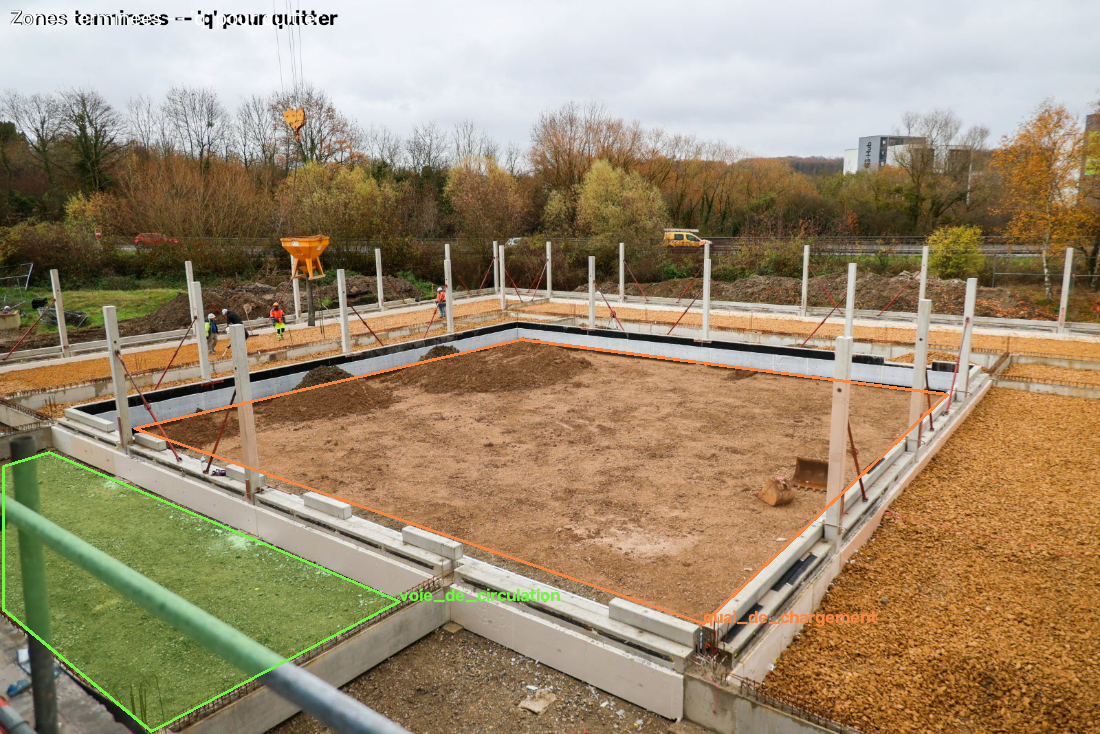
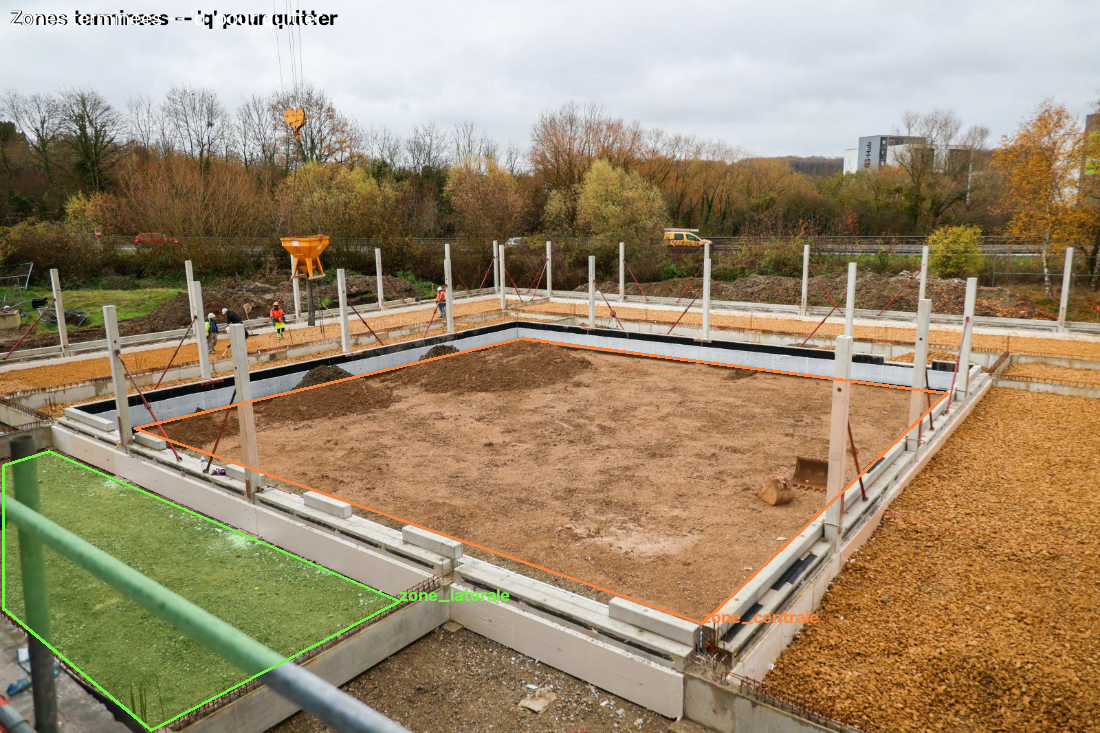
README : scène interactive du chantier, scénario d'intrusion, zones
- Nouvelle sous-section "Scène interactive du chantier" : présentation
  de la scène, commandes de la silhouette (souris, molette, clic droit)
  et scénario d'exemple pas à pas (alerte sur la zone centrale, puis
  intrusion simulée).
- Zones : l'ordre des noms passés à --zones est l'ordre de dessin ; sur
  une vidéo, une seule image sert au dessin (la première, ou
  --frame-index), d'où le besoin d'un plan fixe.
- Aperçu chantier.png régénéré : il affichait d'anciens noms de zones
  (voie_de_circulation, quai_de_chargement) ; polygones inchangés.

diff --git a/README.md b/README.md
@@ -181,6 +181,44 @@ agent/third_party/llama.cpp/llama-server.exe \
   -m agent/models/granite-4.1-3b-Q4_K_M.gguf --jinja -ngl 99 -c 8192 --port 8080
 ```
 
+### Scène interactive du chantier
+
+La 5ᵉ scène du cycle n'est pas une vidéo : c'est une photo de chantier
+sur laquelle on déplace une silhouette d'ouvrier, détectée par le
+modèle comme une vraie personne. Deux zones de danger y sont
+définies : `zone_centrale` (la fouille au centre, en orange sur
+l'aperçu ci-dessous) et `zone_laterale` (en bas à gauche, en vert).
+Pendant la démo, elles sont tracées en rouge sur la vidéo, avec leur
+nom.
+
+![Zones de danger de la scène chantier](demo/assets/zone_previews/chantier.png)
+
+Commandes de la silhouette :
+
+- **déplacer la souris** : la silhouette suit le curseur (aucun clic
+  nécessaire) ;
+- **molette** : agrandir ou réduire la silhouette ;
+- **clic droit** : afficher ou masquer la silhouette.
+
+**Scénario d'exemple : simuler une intrusion**
+
+1. Lancer `03_live_agent_demo.py`, puis appuyer 4 fois sur `c` pour
+   arriver sur la scène « chantier interactif ».
+2. Dans la fenêtre Assistant, demander :
+   « Alerte-moi si quelqu'un entre dans la zone centrale ». Le panneau
+   de droite montre l'outil appelé :
+   `set_zone_alert(zone_name="zone_centrale", object_class="person")`.
+3. Placer la silhouette hors des zones, puis la faire entrer dans la
+   zone centrale.
+4. L'alerte s'affiche aussitôt en bannière sur la vidéo, puis l'agent
+   la reformule en une phrase dans la fenêtre Assistant.
+5. Sortir de la zone puis y revenir déclenche une nouvelle alerte.
+   Demander ensuite « Combien de personnes sont entrées dans la zone
+   centrale ? » pour obtenir le décompte.
+
+Si la silhouette n'est pas détectée (pas de boîte autour d'elle),
+l'agrandir avec la molette.
+
 ## Ajouter une scène avec zones de danger
 
 Les zones sont définies par scène dans `config/zones.yaml`.
@@ -193,7 +231,10 @@ de la démo (touche `c`). `--dry-run` affiche le résultat sans rien
 Deux types de scène :
 
 - **Vidéo** : les zones sont testées sur les vraies détections de la
-  vidéo.
+  vidéo. Le script n'affiche qu'une seule image pour dessiner les
+  zones, la première par défaut (`--frame-index N` pour en choisir une
+  autre). Les zones restent fixes : la vidéo doit donc être filmée en
+  plan fixe.
 - **Scène interactive** (image fixe + silhouette détourée qui suit la
   souris, comme le chantier fourni) : elle permet de **provoquer à la
   demande** des situations précises, difficiles à trouver dans les
@@ -213,8 +254,13 @@ uv run python agent/src/alerts/define_zones.py demo/assets/scenes/06_mon_fond.jp
   --sprite demo/assets/silhouettes/ma_silhouette.png
 ```
 
+Les zones se dessinent **une par une, dans l'ordre des noms passés à
+`--zones`** : avec `--zones entree sortie`, le premier polygone dessiné
+devient `entree`, le second `sortie`. Le nom de la zone en cours est
+affiché en haut de la fenêtre.
+
 Clic gauche : ajouter un point ; clic droit : annuler ; `n` : fermer la
-zone ; `r` : recommencer la zone ; `q` : terminer. Un aperçu est
+zone et passer à la suivante ; `r` : recommencer la zone ; `q` : terminer. Un aperçu est
 enregistré dans `demo/assets/zone_previews/<scene-name>.png`.
 
 ## Rapport technique
